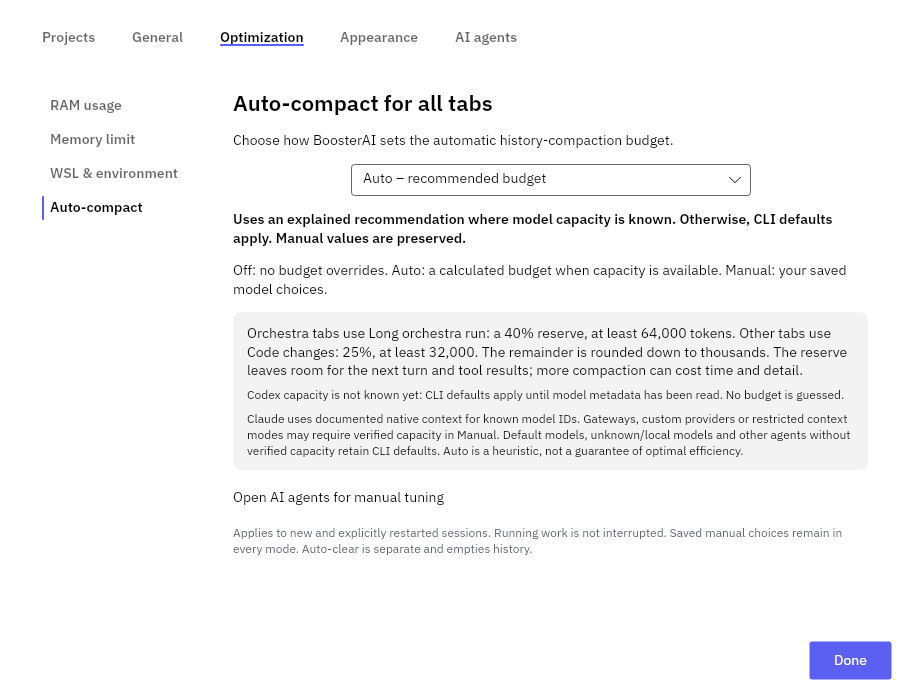
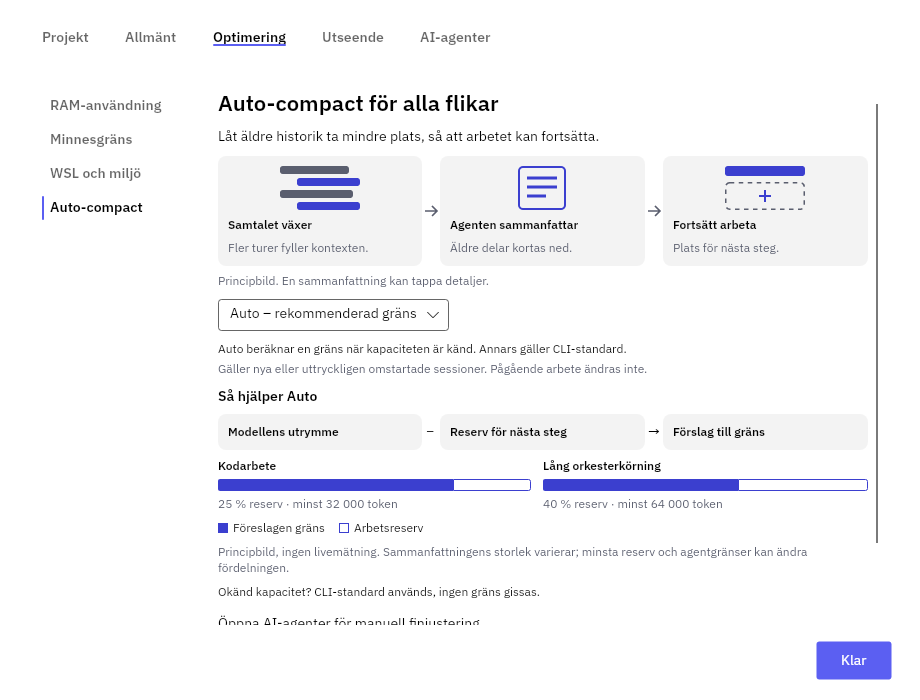
Document and capture visual auto compact guide

diff --git a/docs/index.html b/docs/index.html
@@ -1004,7 +1004,7 @@
         else if (mode === 'appearance') img.src = 'settings-appearance.png?v=20261105';
         else if (mode === 'memory') img.src = 'settings-ram.png?v=20261109-135';
         else if (mode === 'wsl') img.src = 'settings-wsl.png?v=20261109-135';
-        else if (mode === 'compact') img.src = 'settings-compact.png?v=20261109-137';
+        else if (mode === 'compact') img.src = 'settings-compact.png?v=20261109-141';
         img.onload = () => { img.style.opacity = '1'; };
         // Fallback in case image is already cached
         setTimeout(() => { img.style.opacity = '1'; }, 100);

diff --git a/docs/verification/141/README.md b/docs/verification/141/README.md
@@ -1,0 +1,36 @@
+# Visual auto-compaction guide (#141)
+
+Tested source: `47d6e6cd7653ea3c779959fe8dd69a377c57727a`. Later evidence updates change only documentation/images.
+
+Optimization → Auto-compact now leads with the benefit: growing conversation → agent summary → room to continue. The Auto illustration shows known capacity, a work reserve and a suggested threshold, including code/orchestra reserve schematics and a text legend. It is static instruction, not a live meter or a promise that history will have a particular size after summarization.
+
+The guide remains visible in Off and Manual. The selected mode and its explanation remain explicit, alongside the reminder that only new or explicitly restarted sessions receive a setting. Summary detail loss and unknown-capacity CLI fallback are visible; technical calculations, model support, metadata and preservation of saved settings are under Details. Existing mode bindings, agent tuning navigation, policy, algorithms, migration and stored preferences are unchanged.
+
+All visuals are native Avalonia shapes and layout with theme brushes. Text labels convey each step and both reserve segments, so color alone is not required. Text wraps at narrow widths; the page scrolls at the minimum supported Settings size. No bitmap illustration assets, model access, hardware probe, benchmark or desktop window was introduced.
+
+Neutral fixtures use an invented Atlas project, explicit global modes and no real conversation data. Images were rendered from the Release binary and visually inspected:
+
+| Mode | Language/theme | Normal 920×700 | Minimum 640×400 |
+| --- | --- | --- | --- |
+| Auto | Swedish/light | [View](compact-sv-light.png) | [View](compact-sv-min-light.png) |
+| Auto | Swedish/dark | [View](compact-sv-dark.png) | [View](compact-sv-min-dark.png) |
+| Auto | English/light | [View](compact-en-light.png) | [View](compact-en-min-light.png) |
+| Auto | English/dark | [View](compact-en-dark.png) | [View](compact-en-min-dark.png) |
+| Off | English/light | [View](compact-off-en-light.png) | — |
+| Manual | Swedish/dark | [View](compact-manual-sv-dark.png) | — |
+
+The minimum-size captures show the beginning of the same vertically scrollable page, not a clipped or scaled-down full-page image. Both the application navigation and the illustrations remain readable. The normal view shows the mode selector, session scope and Auto explanation. Off/Manual examples retain their selected mode while showing the educational guide.
+
+Verification: 82 existing focused AutoCompact/localization tests passed during implementation. Final Release app builds succeeded with zero warnings/errors on Linux and Windows. The full test suite passed on Linux (909/909, 31 s) and Windows (909/909, 18 s) against the tested source above. No additional tests mirror the static UI; existing mode, policy, migration and localization coverage remains applicable. The Pages preview was also checked at 1280 px and 390 px with the refreshed image key: no JavaScript errors or image overflow. Every screenshot process was awaited and exited; no task processes or locks remain at handoff.
+
+Example render commands from the repository root:
+
+```sh
+dotnet build src/BoosterAI -c Release
+src/BoosterAI/bin/Release/net10.0/BoosterAI --screenshot docs/verification/141/compact-sv-light.png --window settings --tab optimization --section compact --config docs/verification/141/neutral-sv.json --theme light
+src/BoosterAI/bin/Release/net10.0/BoosterAI --screenshot docs/verification/141/compact-en-min-dark.png --window settings --tab optimization --section compact --config docs/verification/141/neutral-en.json --theme dark --width 640 --height 400
+src/BoosterAI/bin/Release/net10.0/BoosterAI --screenshot docs/verification/141/compact-off-en-light.png --window settings --tab optimization --section compact --config docs/verification/141/off-en.json --theme light
+src/BoosterAI/bin/Release/net10.0/BoosterAI --screenshot docs/verification/141/compact-manual-sv-dark.png --window settings --tab optimization --section compact --config docs/verification/141/manual-sv.json --theme dark
+```
+
+`docs/settings-compact.png` uses the normal Swedish/light view; its Pages cache key was refreshed. [Behavior and calculation details](../../DETAILS.md#auto-compaction-budgets) remain the reference for actual per-agent contracts and limitations.

diff --git a/README.md b/README.md
@@ -14,7 +14,7 @@ Start your whole working day with one click: BoosterAI opens every project you w
 - **One click, all your workspaces:** Opens each repository in its own color-coded tab in the right directory. Add subtabs sharing a folder for multi-agent workflows.
 - **Model control:** Pick a model per tab. Interactive Claude, Codex and Aider tabs can resume after a model change when no other tab shares their CLI and folder; see the [conversation limits](docs/DETAILS.md#multiple-tabs-for-one-project).
 - **Agent overview:** Recognize each CLI by its icon; manage installation, permissions and context in separate settings sections.
-- **Context budgets:** Choose Off, Auto or Manual under Optimization; tune or reset individual agents in Manual. Auto uses known model capacity and an explained task reserve. [How budgets work](docs/DETAILS.md#auto-compaction-budgets).
+- **Context budgets:** See how compaction makes room for continued work in Optimization → Auto-compact. Choose Off, Auto or Manual; the illustrated Auto guide explains model capacity and task reserves. Tune individual agents in Manual. [How budgets work](docs/DETAILS.md#auto-compaction-budgets).
 - **Local model advice:** See local model guidance in Settings → AI agents for Aider, Open Interpreter and OpenHands, including before installation. Compare documented planning examples or assess an existing Ollama model against measured hardware. [Evidence and limits](docs/DETAILS.md#local-model-hardware-advice).
 - **Live Peek:** Hover any tab's status badge, or focus it and press Enter/Space, to stream its last 20 terminal output lines live &mdash; never break focus to check if an agent is done.
 - **Orchestra on demand:** Native integration with [Dirigenten och orkestern](https://github.com/solwation/dirigenten-och-orkestern) for unattended autonomous queue execution. Reload an idle Claude orchestra in its existing conversation without restarting its tab.

diff --git a/docs/DETAILS.md b/docs/DETAILS.md
@@ -352,7 +352,9 @@ or menu activation keeps it visible; minimizing it again still returns it to the
 
 ## Auto-compaction budgets
 
-Start with **Settings → Optimization → Auto-compact**:
+Start with **Settings → Optimization → Auto-compact**. The page illustrates a growing conversation → agent summary → room for more work, with a visible reminder that summaries can lose details. A second static diagram explains known model capacity minus a work reserve → suggested compaction threshold, with code/orchestra examples and a labeled legend. These are scalable theme-aware illustrations, not live conversation meters or promises of exact summary size, cost, speed or quality.
+
+The explanation remains visible in Off, Auto and Manual so you can understand Auto before selecting it. The current choice and its effect remain separate from the illustrations; opening the page changes no setting. Calculation details, model support and metadata status are expandable, while the agent-specific tuning shortcut remains available.
 
 | Global mode | Behavior |
 | --- | --- |
